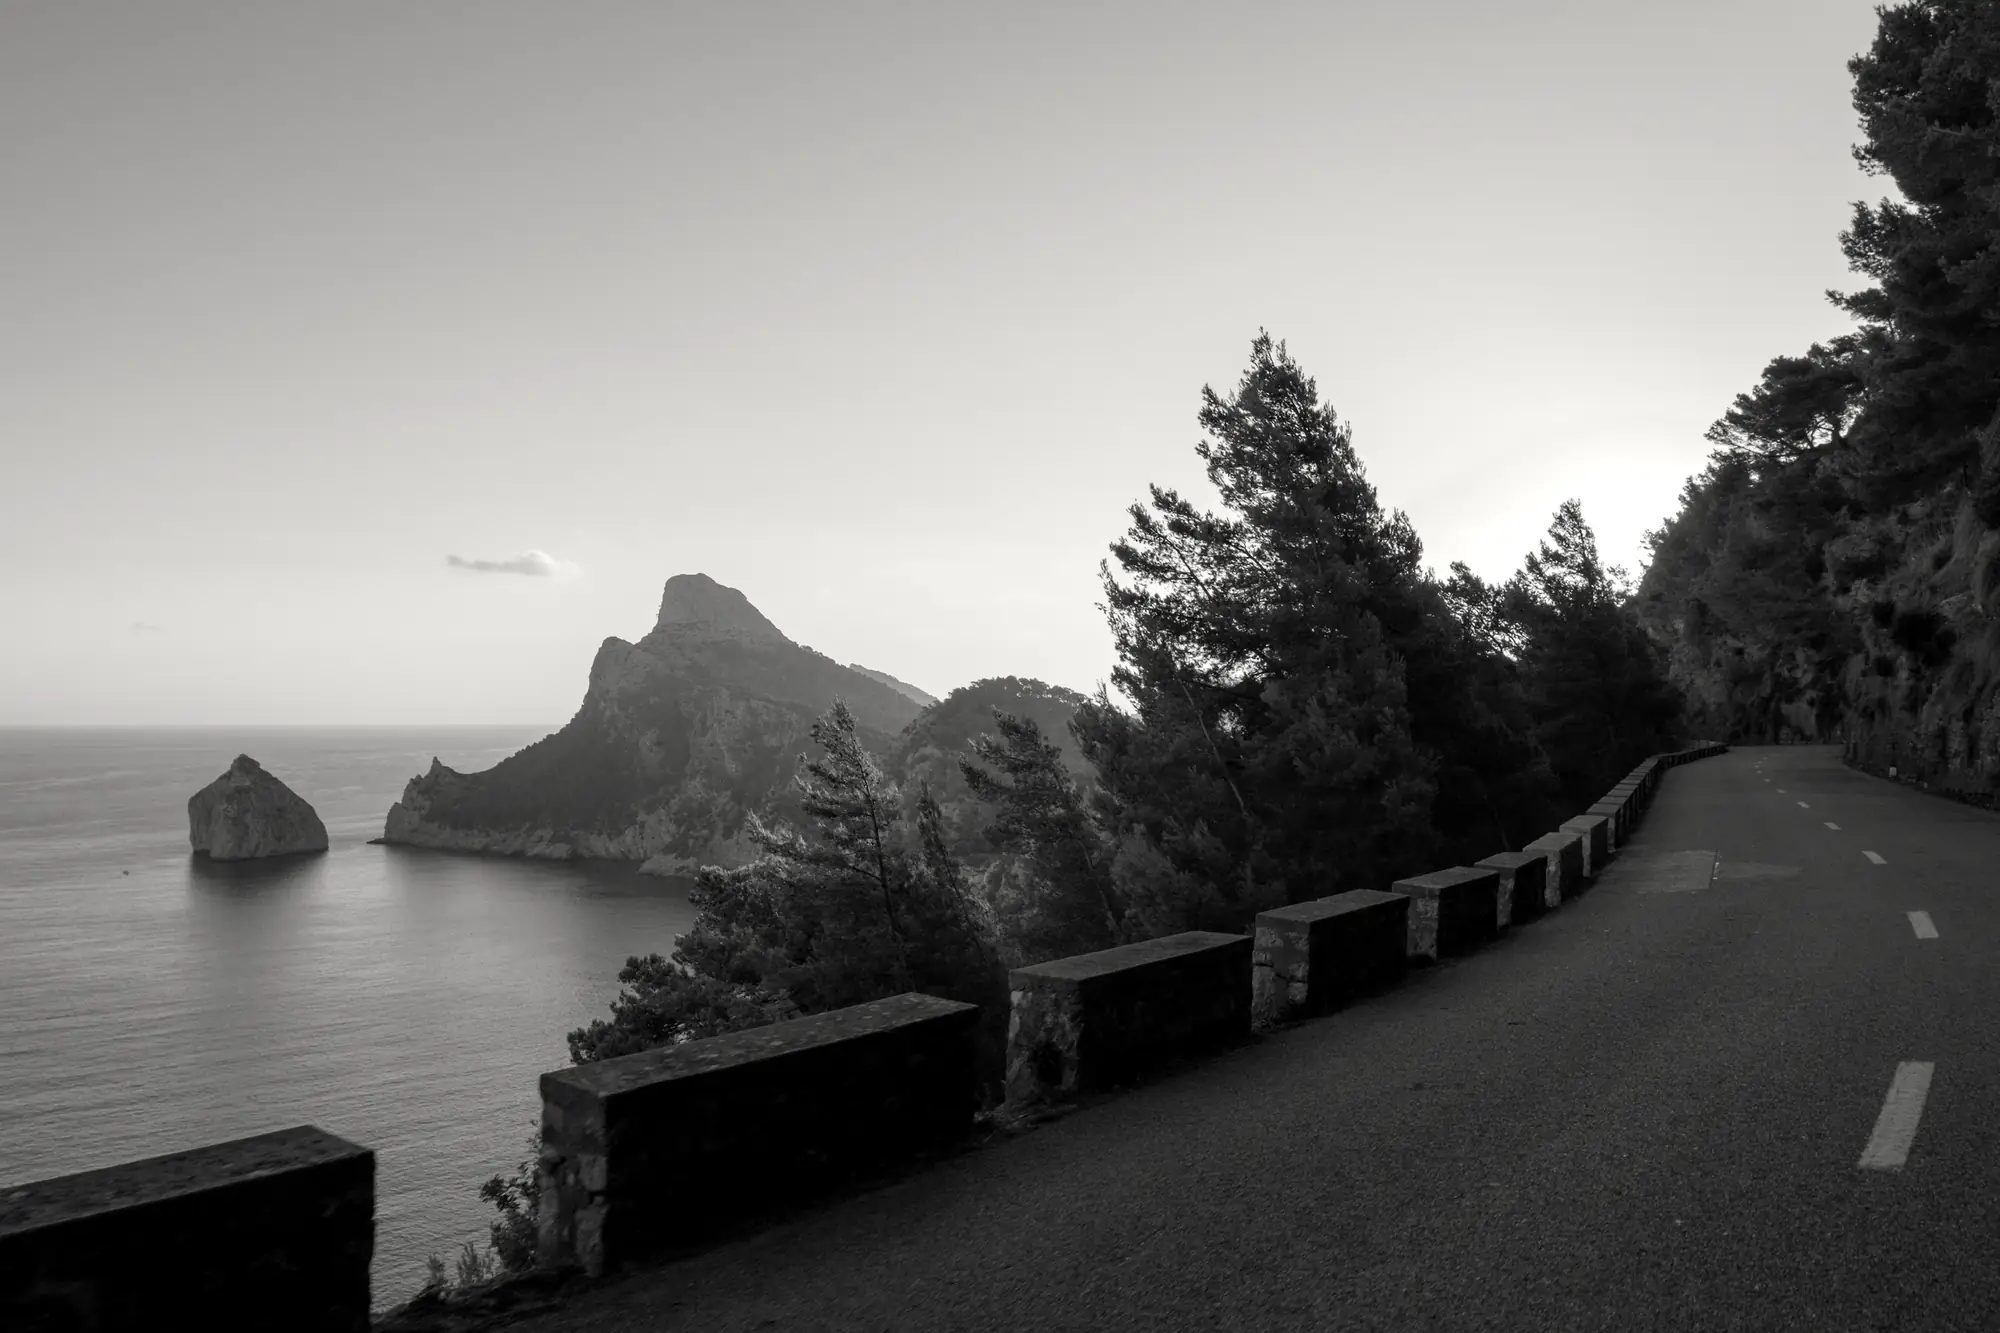
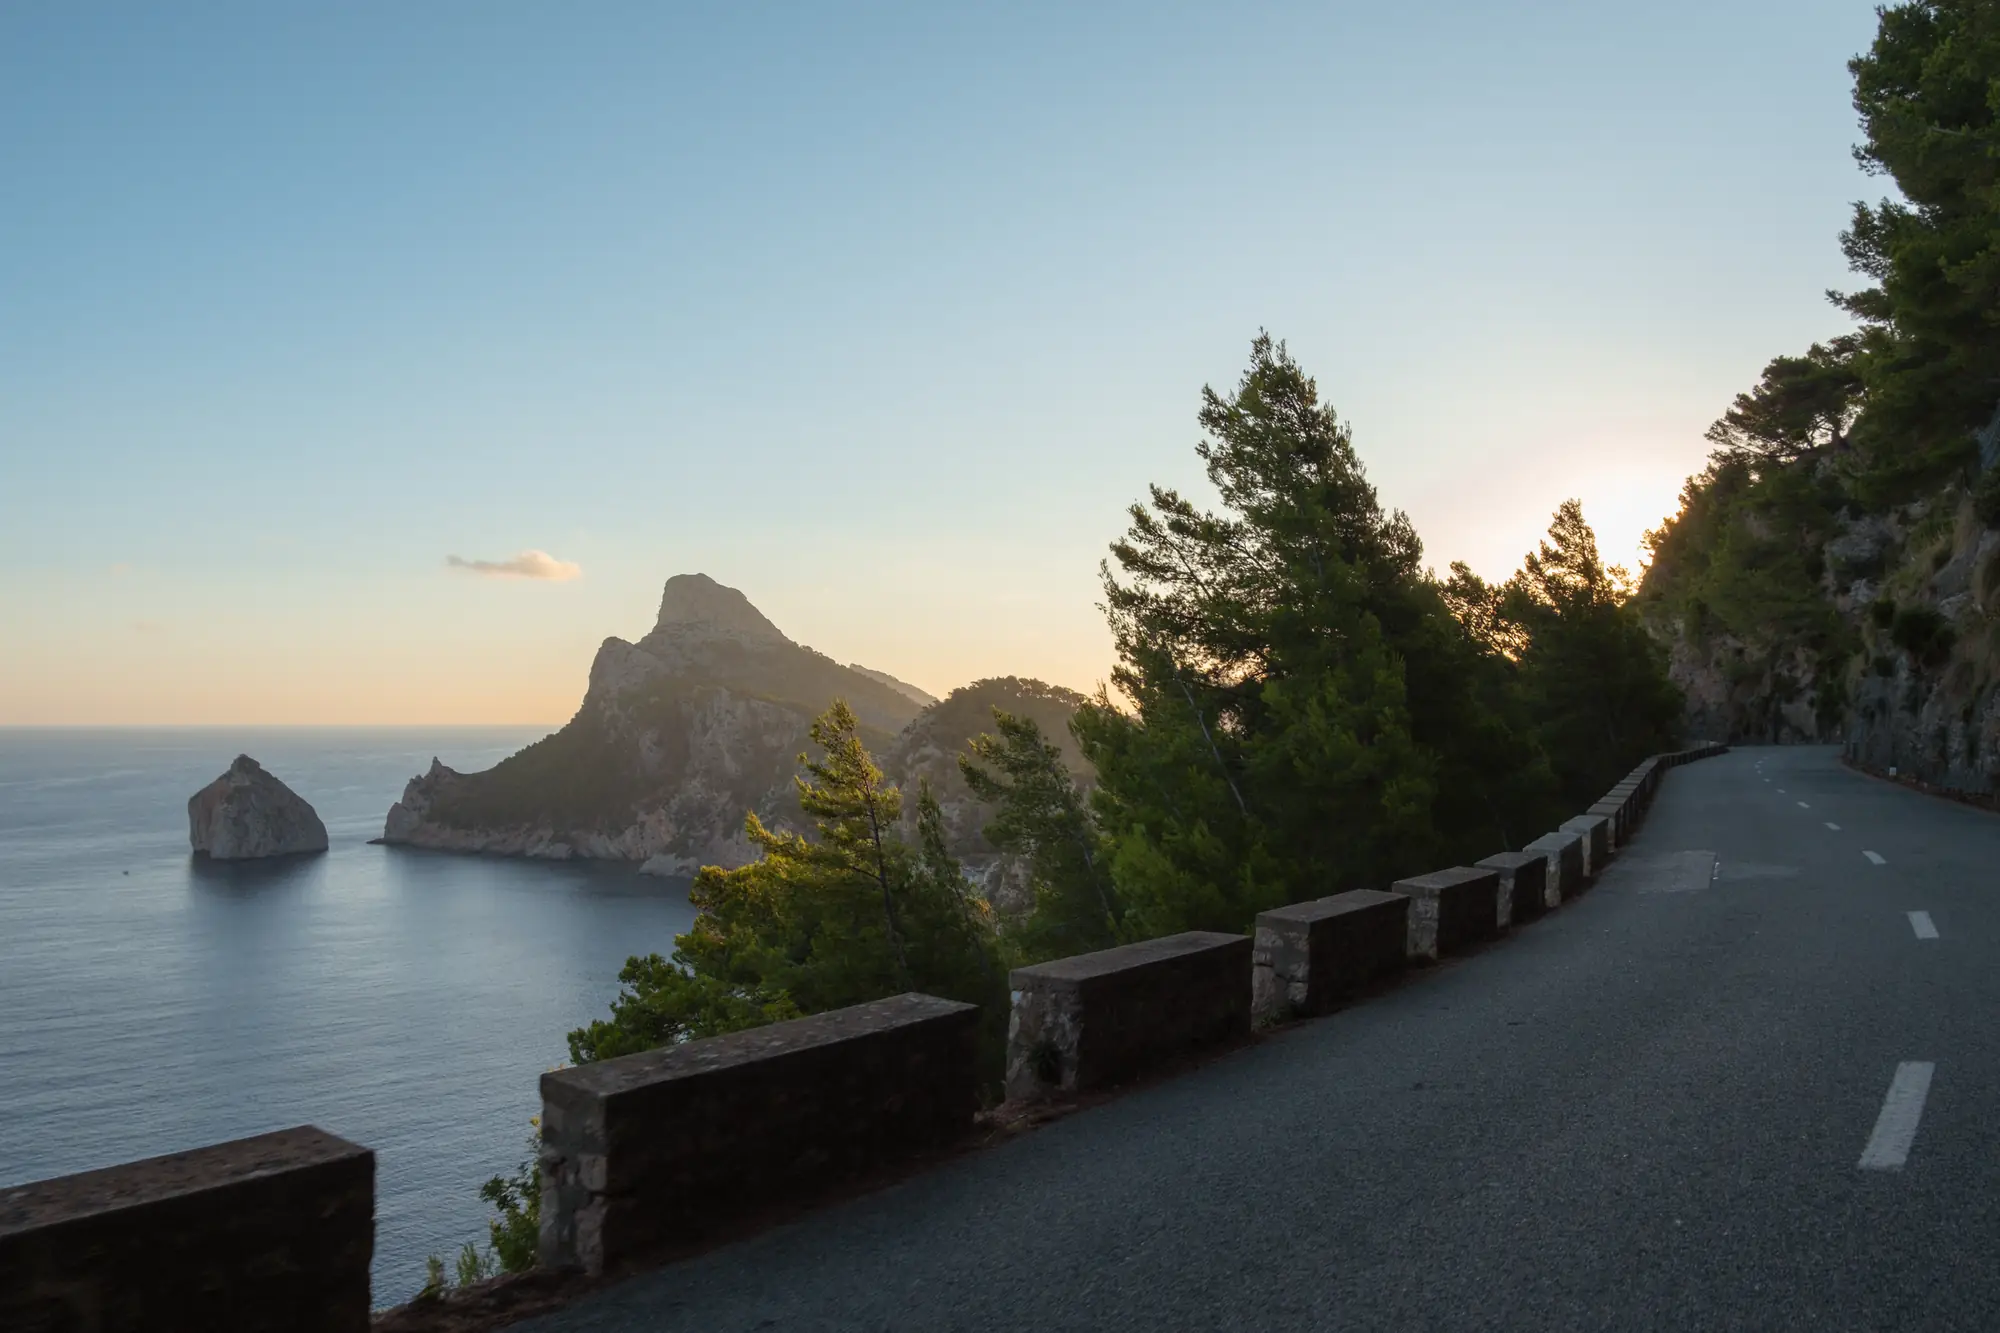
App photos in Gareth's own colour grade, separated from the safety branch
Black and white suited the mixed stock set first tried; Gareth's own photos
share one camera and one grade, and colour carries the light and warmth.
build_passes.py now builds colour by default (--mono for monochrome).

diff --git a/frontend/src/lib/dailyPass.ts b/frontend/src/lib/dailyPass.ts
@@ -3,10 +3,10 @@
  *
  * Same deterministic day-hash idea as the daily quote: every rider wakes to
  * the same road, and tomorrow brings another. Shot by Gareth Winter on his
- * Fujifilm in Mallorca's Serra de Tramuntana, all in one monochrome grade
- * (scripts/brand/build_passes.py), so the flamme accent stays the only
- * colour. No people on the road: the rider puts themselves there. Replaced
- * the ink road art on 13 Oct 2026.
+ * Fujifilm in Mallorca's Serra de Tramuntana, in his own colour grade
+ * (scripts/brand/build_passes.py). No people on the road: the rider puts
+ * themselves there. Replaced the ink road art on 13 Oct 2026; colour from
+ * 15 Oct 2026.
  */
 
 export interface Pass {

diff --git a/scripts/brand/build_passes.py b/scripts/brand/build_passes.py
@@ -4,13 +4,15 @@ Every photograph here was taken by Gareth Winter on his Fujifilm, so Forma
 owns them outright (the Adobe Stock set tried first on 13 Oct 2026 was
 licensed to Mindvalley and was never published).
 
-One grade for every photograph: monochrome, levels set per image, a gentle
-S curve and a hint of warmth in the whites, so the flamme accent stays the
-only colour on the page.
+They are published in Gareth's own colour grade, as shot: one camera and one
+eye already make them a consistent set, and the colour carries the light and
+warmth that make a rider want to be on that road (decided 15 Oct 2026, after
+a week in monochrome).
 
-    .venv/bin/python scripts/brand/build_passes.py [--as-shot]
+    .venv/bin/python scripts/brand/build_passes.py [--mono]
 
---as-shot keeps Gareth's own colour grade instead of the monochrome. Writes
+--mono builds the monochrome grade instead (levels set per image, a gentle S
+curve, a hint of warmth in the whites). Writes
 WebP at 1280 and 2000 px wide into the app (frontend/public/passes) and the
 landing site (~/forma-landing/img/passes), with metadata stripped.
 """
@@ -56,8 +58,8 @@ def grade_mono(rgb: np.ndarray) -> np.ndarray:
 
 
 def main() -> None:
-    as_shot = "--as-shot" in sys.argv
-    grade = (lambda a: a) if as_shot else grade_mono
+    mono = "--mono" in sys.argv
+    grade = grade_mono if mono else (lambda a: a)
     APP.mkdir(parents=True, exist_ok=True)
     LANDING.mkdir(parents=True, exist_ok=True)
     for name, slug in SOURCES.items():
